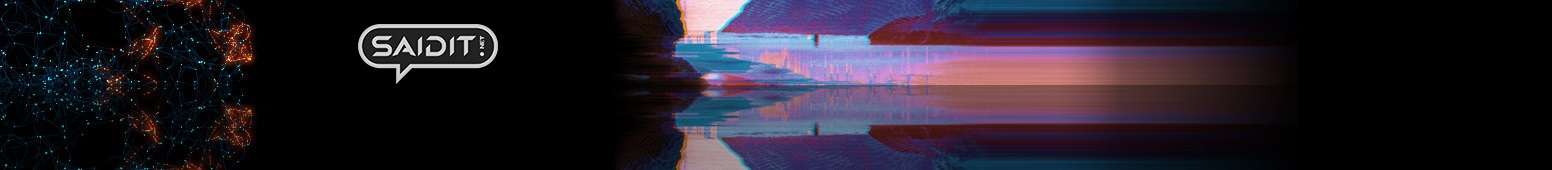
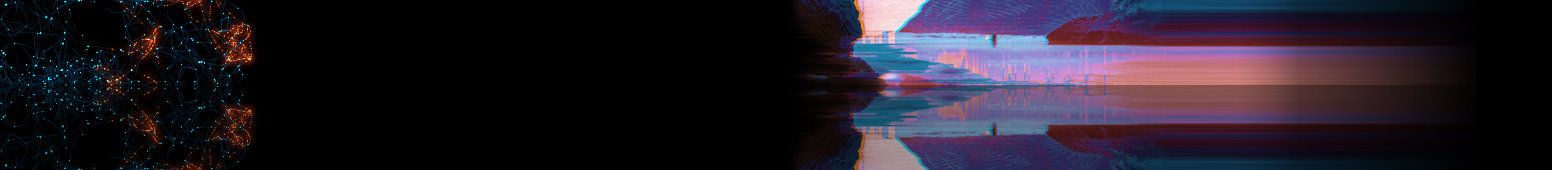
add automod link, cleanup 146205408aea1fbd12ca42656b2d751b9ff1ae65

diff --git a/r2/r2/templates/createsubreddit.html b/r2/r2/templates/createsubreddit.html
@@ -144,12 +144,14 @@ There is a 2 week delay to create a sub after creating an account. Also there is
                            is_archived)}
       %endif
 
-      <!-- <% is_gold_restricted = thing.site and thing.site.type == 'gold_restricted' %>
-      %if c.user_is_admin or is_gold_restricted:
-        ${utils.radio_type('type', "gold_restricted", _("gold restricted"),
-                           _("anyone can view, but only gold members can submit or comment"),
-                           is_gold_restricted)} 
-      %endif   -->
+      %if g.gold_gilding_enabled == 'true':
+        <% is_gold_restricted = thing.site and thing.site.type == 'gold_restricted' %>
+        %if c.user_is_admin or is_gold_restricted:
+          ${utils.radio_type('type', "gold_restricted", _("gold restricted"),
+                             _("anyone can view, but only gold members can submit or comment"),
+                             is_gold_restricted)}
+        %endif
+      %endif
 
       <% is_employees_only = thing.site and thing.site.type == 'employees_only' %>
       %if c.user.employee:
@@ -158,23 +160,23 @@ There is a 2 week delay to create a sub after creating an account. Also there is
                            is_employees_only)}
       %endif
 
-      <!-- <%
-          is_gold_only = thing.site and thing.site.type == 'gold_only'
-          can_set_gold_only = (is_gold_only or c.user_is_admin or
-                  (not thing.site and (c.user.gold or c.user.gold_charter)))
-          if is_gold_only:
-              hover_title = "[!]"
-              hover_text = _('If you switch this sub to another type, you will not be able to switch back to "gold only" without the assistance of an admin')
-          else:
-              hover_title = "[?]"
-              hover_text = unsafe(capture(_md, 'BETA: Subs can be created as "gold only" during creation by a user that has gold. You can find more info about this feature [here](/gold/about#gold-only-subreddits)'))
-      %>
-      ${utils.radio_type('type', "gold_only", _("gold only"),
-              _("only gold members can view and submit"),
-              checked=is_gold_only, disabled=not can_set_gold_only, hover_title=hover_title,
-              hover_text=hover_text)}
-
-          -->
+      %if g.gold_gilding_enabled == 'true':
+        <%
+            is_gold_only = thing.site and thing.site.type == 'gold_only'
+            can_set_gold_only = (is_gold_only or c.user_is_admin or
+                    (not thing.site and (c.user.gold or c.user.gold_charter)))
+            if is_gold_only:
+                hover_title = "[!]"
+                hover_text = _('If you switch this sub to another type, you will not be able to switch back to "gold only" without the assistance of an admin')
+            else:
+                hover_title = "[?]"
+                hover_text = unsafe(capture(_md, 'BETA: Subs can be created as "gold only" during creation by a user that has gold. You can find more info about this feature [here](/gold/about#gold-only-subreddits)'))
+        %>
+        ${utils.radio_type('type', "gold_only", _("gold only"),
+                _("only gold members can view and submit"),
+                checked=is_gold_only, disabled=not can_set_gold_only, hover_title=hover_title,
+                hover_text=hover_text)}
+      %endif
       </table>
       ${error_field("INVALID_OPTION", "type")}
       ${error_field("ADMIN_REQUIRED", "type")}

diff --git a/r2/r2/public/static/css/reddit.less b/r2/r2/public/static/css/reddit.less
@@ -11557,7 +11557,7 @@ body:not(.loggedin) .report-button {
 /* header: background image, centered large logo */
 #header {
 	background-color: #000000;
-	background-image: url(../header-banner-85_old.jpg);
+	background-image: url(../header-banner-85.jpg);
 	background-position: top left;
 	background-repeat: no-repeat;
 	min-height: 83px; /* can fine tune and hide top of banner */

diff --git a/r2/r2/templates/usertext.html b/r2/r2/templates/usertext.html
@@ -127,7 +127,7 @@
       </tr>
        <tr>
         <td>
-          !!chat_widget
+          ${g.live_config.get("chat_enabling_post_content")}
         </td>
         <td>
           <ul>

diff --git a/r2/r2/lib/system_messages.py b/r2/r2/lib/system_messages.py
@@ -160,11 +160,11 @@ def send_ban_message(subreddit, mod, user, note=None, days=None, new=True):
         "contact the moderator team for %(subreddit)s by replying to this "
         "message.") % {"subreddit": sr_name}
 
-    message += "\n\n" + ("**Reminder from the saidit staff**: If you use "
+    message += "\n\n" + ("**Reminder from the %(site_name)s staff**: If you use "
         "another account to circumvent this sub ban, that will be "
         "considered a violation of [the Content Policy](/s/SaidIt/comments/j1/the_saiditnet_terms_and_content_policy/) "
         "and can result in your account being suspended"
-        "from the site as a whole.")
+        "from the site as a whole.") % {"site_name": g.brander_site}
 
     item, inbox_rel = Message._new(
         mod, user, subject, message, request.ip, sr=subreddit, from_sr=True,

diff --git a/r2/r2/lib/pages/pages.py b/r2/r2/lib/pages/pages.py
@@ -622,7 +622,7 @@ class Reddit(Templated):
                     data=data_attrs('flair')))
 
         # append AutoMod button if it's enabled and they have perms to change it
-        """if (g.automoderator_account and
+        if (g.automoderator_account and
                 is_single_subreddit and
                 is_moderator_with_perms('config')):
             # link to their config if they have one, or the docs if not
@@ -639,7 +639,7 @@ class Reddit(Templated):
                     sr_path=False,
                     dest="../wiki/automoderator",
                     css_class="reddit-automod access-required",
-                ))"""
+                ))
 
         buttons.append(NamedButton(
             "log",

diff --git a/r2/r2/templates/mediaembedbody.m b/r2/r2/templates/mediaembedbody.m
@@ -28,6 +28,11 @@
             margin:  0;
             padding: 0;
         }
+        @media only screen and (max-width: 600px) {
+            iframe {
+                max-width: 100%;
+            }
+        }
     </style>
   </head>
   <body>${unsafe(thing.body)}</body>
